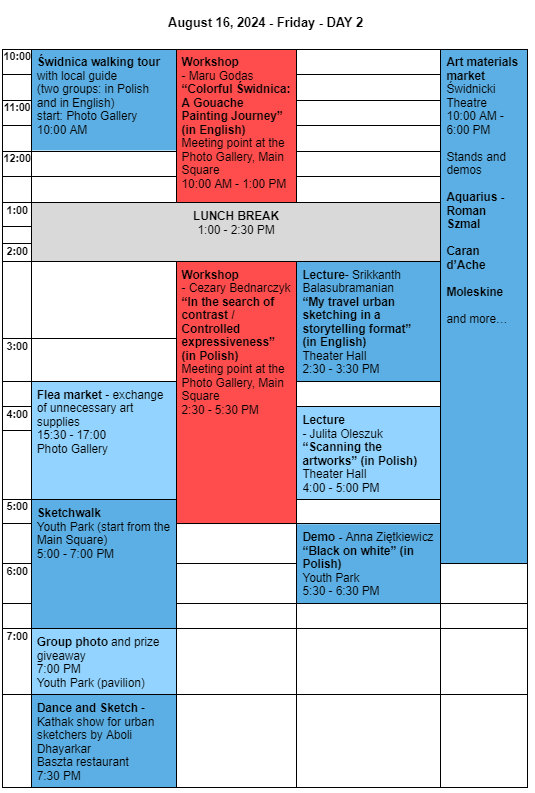
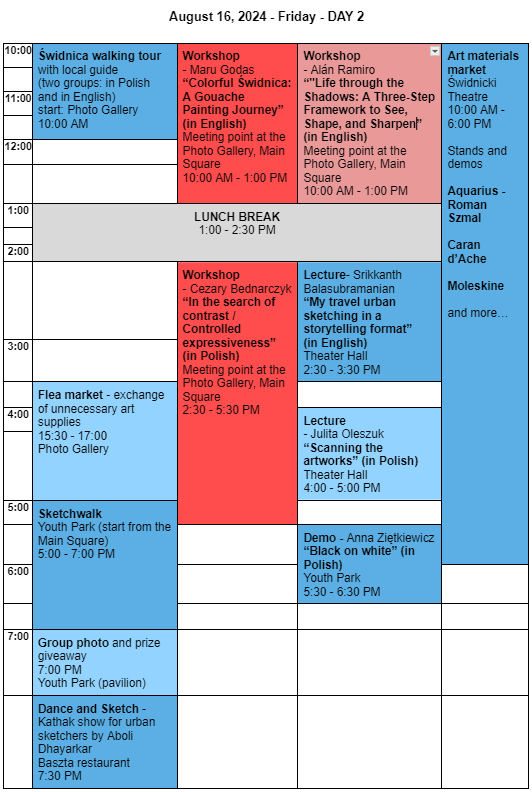
alan

Changed region(s): [[0.0, 0.0, 1.0, 1.0]]

diff --git a/index.html b/index.html
@@ -87,6 +87,39 @@
 
                 <article>
                     <div class="workshops-image-background">
+                        <img class="workshops-image" src="./main/images/2024/workshops/Alan_warsztaty.png" alt="grafika o warsztatach  Alán Ramiro">
+                    </div>
+                    <p><b>O warsztacie</b></p>
+                    <p><b>“Życie w cieniach: Trójstopniowy schemat, aby zobaczyć, kształtować i wyostrzać”</b></p>
+                    <p> Podczas wciągających warsztatów "Życie w cieniach" Alán Ramiro poprowadzi uczestników przez nowatorskie podejście do szkicowania miejskiego za pomocą swojego unikalnego trójstopniowego schematu: Zobacz, Kształtuj i Wyostrz. Na tych warsztatach detale stają się przyjemnością, a nie obowiązkiem. Obserwując cienie, skupiamy się najpierw na tworzeniu form, stosując plamy tuszu lub akwareli. Z tego procesu następnie definiujemy kontury i krawędzie za pomocą pióra i atramentu, z wybiórczą uwagą. To, co kiedyś było trudne w szkicowaniu, teraz staje się przyjemnością dzięki światłu i cieniowi. Ta metoda pomaga szkicującym przezwyciężyć przytłoczenie detalami i pułapki perfekcjonizmu, zmieniając akt szkicowania w radosną eksplorację światła i cienia.
+                    </p>
+                    <div class="materials">
+                        <p class="materials__text"><b>Materiały</b></p>
+                        <ul class="materials-list">
+                            <li>szkicownik akwarelowy A4 lub większy albo blok oraz papier na szybkie szkice próbne</li>
+                            <li>kredka (najlepiej niebieska, czarna lub fioletowa)</li>
+                            <li>pędzle: okrągły pędzel: rozmiar 12-16 i rozmiar 4</li>
+                            <li>sugerowane: Pędzle wodne napełnione rozcieńczonym tuszem: ciemnym i średnim</li>
+                            <li>akwarele: standardowy zestaw akwarelowy. Sugerowane kolory to ultramaryna, żółta ochra i siena palona</li>
+                            <li>cienkopisy: kilka cienkopisów o różnych rozmiarach z trwałym czarnym tuszem lub pióro wieczne z wodoodpornym atramentem</li>
+                            <li>stołek. Kubek na wodę. Woda. Ręcznik papierowy.</li>
+                            <li></li>
+                        </ul>
+                    </div>
+                    <p><b>O prowadzącym</b></p>
+                    <p><b>Alán Ramiro</b> - Prowadzony pasją do  tworzenia, nawiązywania relacji i pomagania, Alán Ramiro wnosi do świata miejskiego szkicowania swoje wyjątkowe połączenie nomadycznych podróży z doświadczeniem w projektowaniu architektury. Jego dziesięcioletnie doświadczenie w pracy w architekturze w Stanach Zjednoczonych, pomnożone przez liczne podróże po całym świecie, doskonaliło jego zdolność przekładania skomplikowanych struktur na żywe szkice.
+                        Podczas niedawnej podróży ze szkicownikiem przez Rzym, Włochy, Alán stanął przed wyzwaniem złożonych detali fasad, które zainspirowały go do stworzenia nowej techniki, która zrewolucjonizowała jego podejście – szkicowania cieni na początku. Ta prosta, a jednocześnie potężna technika zmieniła sposób, w jaki podchodzi do detali architektonicznych, wprowadzając wolność i energię w jego szkice.
+                        Alán wiedział, że jest artystą w wieku dziewięciu lat, ale życiowe okoliczności sprawiły, że odłożył to na bok, aż pewnego dnia, w 2013 roku, jego pasja do sztuki została ponownie rozpalona. Podczas studiów architektonicznych w Hiszpanii przez rok Alánowi zabrakło pieniędzy, dlatego też podjął się pilnej potrzeby opanowania szkicowania, co dało początek 'seethelines'. Poprzez rygorystyczne ćwiczenia wizualizacyjne Alán odkrył przekształcającą moc urban sketchingu w samorealizacji. Po ponad 30 naszkicowanych krajach i zamieszkaniu w Lizbonie, podróż Alána ewoluowała, przyjmując podwójne role artysty i edukatora na drodze kreatywnej eksploracji. Jego warsztaty zachęcają sketcherów do wplecenia osobistych doświadczeń w ich sztukę, przechodząc poza samą replikację. Szkicowanie miejskie dla Alána nie jest tylko czymś, co robimy dla zabawy; to linia ratunku, by uczcić teraźniejszość i obserwować nasz rozwój w namacalnej postaci przez całe życie.
+                    </p>
+                    <p>Instagram: <a class="link" href="https://www.instagram.com/seethelines" rel="noopener noreferrer" target=_blank aria-label="link do aiu_art">@seethelines</a></p>
+                    <a class="register__button workshop-button" href="https://bilety.sok.com.pl/"
+                       rel="noopener noreferrer"
+                       target=_blank aria-label="Zapisy na warsztaty Alana">Zapisy od 20 czerwca</a>
+                    <hr>
+                </article>
+
+                <article>
+                    <div class="workshops-image-background">
                         <img class="workshops-image" src="./main/images/2024/workshops/Anna_warsztaty.png" alt="grafika o warsztatach  Anna Iudina">
                     </div>
                     <p><b>O warsztacie</b></p>
@@ -447,6 +480,23 @@
 
             <p class="register__text">Informacje o demach - <a class="link demos--js" alt="show/hide demos info">kliknij tutaj</a></p>
             <div class="demos-container">
+                <article class="workshops-article">
+                    <div class="workshops-image-background">
+                        <img class="workshops-image" src="./main/images/2024/demos/Alan_demo.png" alt="grafika o demo Alan">
+                    </div>
+                    <p><b>Alán Ramiro - Szkicowanie nocą: Uchwycenie blasku miasta</b></p>
+                    <p>Dzień czy noc, urban sketcherzy mogą korzystać ze szkicownika o każdej porze. Wbrew powszechnemu przekonaniu o pogorszonych warunkach wizualnych w nocy, kolory po zmroku są wyraźnie widoczne dzięki jednolitemu blaskowi światła ulicznego. Alán Ramiro zademonstruje, jak szkicować nocą, uchwycić różnorodność odbić i cieni. Nocna scena staje się okazją do zabawy z akwarelowymi plamami, podczas gdy mrok daje możliwość ćwiczenia ciemnych walorów, zwłaszcza dla głębi ciemnego nieba.
+                    </p>
+                    <p>Wstęp wolny. Demo w języku angielskim.</p>
+                    <p><b>O prowadzącym</b></p>
+                    <p><b>Alán Ramiro</b> - Prowadzony pasją do  tworzenia, nawiązywania relacji i pomagania, Alán Ramiro wnosi do świata miejskiego szkicowania swoje wyjątkowe połączenie nomadycznych podróży z doświadczeniem w projektowaniu architektury. Jego dziesięcioletnie doświadczenie w pracy w architekturze w Stanach Zjednoczonych, pomnożone przez liczne podróże po całym świecie, doskonaliło jego zdolność przekładania skomplikowanych struktur na żywe szkice.
+                        Podczas niedawnej podróży ze szkicownikiem przez Rzym, Włochy, Alán stanął przed wyzwaniem złożonych detali fasad, które zainspirowały go do stworzenia nowej techniki, która zrewolucjonizowała jego podejście – szkicowania cieni na początku. Ta prosta, a jednocześnie potężna technika zmieniła sposób, w jaki podchodzi do detali architektonicznych, wprowadzając wolność i energię w jego szkice.
+                        Alán wiedział, że jest artystą w wieku dziewięciu lat, ale życiowe okoliczności sprawiły, że odłożył to na bok, aż pewnego dnia, w 2013 roku, jego pasja do sztuki została ponownie rozpalona. Podczas studiów architektonicznych w Hiszpanii przez rok Alánowi zabrakło pieniędzy, dlatego też podjął się pilnej potrzeby opanowania szkicowania, co dało początek 'seethelines'. Poprzez rygorystyczne ćwiczenia wizualizacyjne Alán odkrył przekształcającą moc urban sketchingu w samorealizacji. Po ponad 30 naszkicowanych krajach i zamieszkaniu w Lizbonie, podróż Alána ewoluowała, przyjmując podwójne role artysty i edukatora na drodze kreatywnej eksploracji. Jego warsztaty zachęcają sketcherów do wplecenia osobistych doświadczeń w ich sztukę, przechodząc poza samą replikację. Szkicowanie miejskie dla Alána nie jest tylko czymś, co robimy dla zabawy; to linia ratunku, by uczcić teraźniejszość i obserwować nasz rozwój w namacalnej postaci przez całe życie.
+                    </p>
+                    <p>Instagram: <a class="link" href="https://www.instagram.com/seethelines" rel="noopener noreferrer" target=_blank aria-label="link do seethelines
+">seethelines</a></p>
+                    <hr>
+                </article>
                 <article class="workshops-article">
                     <div class="workshops-image-background">
                         <img class="workshops-image" src="./main/images/2024/demos/Michael_demo.png" alt="grafika o demo Michael Persch">

diff --git a/english.html b/english.html
@@ -87,6 +87,39 @@
 
                 <article>
                     <div class="workshops-image-background">
+                        <img class="workshops-image" src="./main/images/2024/workshops/Alan_warsztaty.png" alt="grafika o warsztatach  Alán Ramiro">
+                    </div>
+                    <p><b>About the workshop</b></p>
+                    <p><b>“Life through the Shadows: A Three-Step Framework to See, Shape, and Sharpen”</b></p>
+                    <p> In this immersive workshop, "Life through the Shadows," Alán Ramiro will guide participants through a transformative approach to urban sketching using his unique three-step framework: See, Shape, and Sharpen.  In this workshop details become a treat, and not a chore. By observing shadows first, we guide our vision to make forms by applying an ink wash or watercolor directly to the scene. Out of this process we then define contours and edges in ink and pen with selective admiration. What once was hard to imagine to sketch is now a delight through light and shadow. This method helps sketchers transcend the overwhelm of details and the pitfalls of perfectionism, turning the act of sketching into a joyous exploration of light and shadow.
+                    </p>
+                    <div class="materials">
+                        <p class="materials__text"><b>Materials</b></p>
+                        <ul class="materials-list">
+                            <li>A4 or larger watercolor sketchbook/ or block. And scrap paper for a quick practice sketch./li>
+                            <li>A color pencil (preferably blue, black or purple)</li>
+                            <li>Paint brushes: Round brush: Size 12-16. And size 4.</li>
+                            <li>Suggested: Waterbrushes filled with diluted ink: Dark and medium.</li>
+                            <li>Watercolors: A standard watercolor kit. Suggested to have ultramarine blue, yellow ochre, and burnt sienna.</li>
+                            <li>Pens: A few pens of different sizes that are permanent black ink. Or a fountain pen with waterproof ink.</li>
+                            <li>A stool. Water Cup. Water. Paper towel.</li>
+                            <li></li>
+                        </ul>
+                    </div>
+                    <p><b>About the teacher</b></p>
+                    <p><b>Alán Ramiro</b> - Driven by a passion for creating, connecting, and serving, Alán Ramiro brings his unique blend of nomadic travels to architecture design experience to the world of urban sketching. His decade of working in architecture in the United States multiplied by numerous travels around the world has honed his ability to translate complex structures into lively sketches.
+                        During a recent sketching journey through Rome, Italy, Alán was met with the challenge of intricate facade details that birthed a new technique that revolutionized his approach – sketching shadows first. This simple yet powerful technique transformed the way he approaches architectural details, instilling freedom and energy into his sketches.
+                        Alán knew he was an artist at the age of nine but life circumstances pushed it away until one day in 2013 his passion for art was reignited. During his architecture studies in Spain for one year he ran out of money and so Alán embraced the urgency to master sketching, giving rise to 'seethelines.'  Through rigorous visualization exercises, Alán discovered the transformative power of urban sketching for self-actualization. Now based in Lisbon after over 30 countries sketched, Alán's journey has evolved, embracing the dual roles of artist and educator on a path of creative exploration. His workshops guide sketchers to infuse personal experiences into their art, transcending mere replication. Urban sketching, for Alán, isn’t not just something we do for fun, it's a lifeline to honor the present and witness our growth in physical form throughout life.
+                    </p>
+                    <p>Instagram: <a class="link" href="https://www.instagram.com/seethelines" rel="noopener noreferrer" target=_blank aria-label="link do aiu_art">@seethelines</a></p>
+                    <a class="register__button workshop-button" href="https://bilety.sok.com.pl/"
+                       rel="noopener noreferrer"
+                       target=_blank aria-label="Zapisy na warsztaty Alana">Register since June 20th</a>
+                    <hr>
+                </article>
+
+                <article>
+                    <div class="workshops-image-background">
                         <img class="workshops-image" src="./main/images/2024/workshops/Anna_warsztaty.png" alt="Anna Iudina's workshop graphic">
                     </div>
                     <p><b>About the workshop</b></p>
@@ -426,6 +459,22 @@
 
             <p class="register__text">Demo information - <a class="link demos--js" alt="show/hide demos info">click here</a></p>
             <div class="demos-container">
+                <article class="workshops-article">
+                    <div class="workshops-image-background">
+                        <img class="workshops-image" src="./main/images/2024/demos/Alan_demo.png" alt="Alán Ramiro demo graphic">
+                    </div>
+                    <p><b>Alán Ramiro - Night Sketching: Capturing the City’s Glow</b></p>
+                    <p>Day or night, the urban sketcher can benefit from sketching at any time. Contrary to common thought of confused visual conditions at night, the colors of the night are transmitted under the consistent street light glow. Alán Ramiro shares a demonstration of how to sketch at night capturing the multitude of reflections and shadows. The scene becomes a playground to play with watercolor washes while the night gives the benefit to exercise dark values especially for the depth of the dark sky.
+                    </p>
+                    <p>Open admission. Demo in English.</p>
+                    <p><b>About the teacher</b></p>
+                    <p><b>Alán Ramiro</b> - Driven by a passion for creating, connecting, and serving, Alán Ramiro brings his unique blend of nomadic travels to architecture design experience to the world of urban sketching. His decade of working in architecture in the United States multiplied by numerous travels around the world has honed his ability to translate complex structures into lively sketches.
+                        During a recent sketching journey through Rome, Italy, Alán was met with the challenge of intricate facade details that birthed a new technique that revolutionized his approach – sketching shadows first. This simple yet powerful technique transformed the way he approaches architectural details, instilling freedom and energy into his sketches.
+                        Alán knew he was an artist at the age of nine but life circumstances pushed it away until one day in 2013 his passion for art was reignited. During his architecture studies in Spain for one year he ran out of money and so Alán embraced the urgency to master sketching, giving rise to 'seethelines.'  Through rigorous visualization exercises, Alán discovered the transformative power of urban sketching for self-actualization. Now based in Lisbon after over 30 countries sketched, Alán's journey has evolved, embracing the dual roles of artist and educator on a path of creative exploration. His workshops guide sketchers to infuse personal experiences into their art, transcending mere replication. Urban sketching, for Alán, isn’t not just something we do for fun, it's a lifeline to honor the present and witness our growth in physical form throughout life.
+                       </p>
+                    <p>Instagram: <a class="link" href="https://www.instagram.com/seethelines" rel="noopener noreferrer" target=_blank aria-label="link do seethelines">seethelines</a></p>
+                    <hr>
+                </article>
                 <article class="workshops-article">
                     <div class="workshops-image-background">
                         <img class="workshops-image" src="./main/images/2024/demos/Michael_demo.png" alt="Michael Persch's demo graphic">
